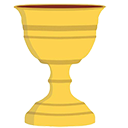
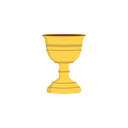
新遗物圣杯完成

diff --git a/src/main/java/asimplemodforsts/relics/HolyGrail.java b/src/main/java/asimplemodforsts/relics/HolyGrail.java
@@ -8,22 +8,27 @@ import com.megacrit.cardcrawl.actions.common.GainEnergyAction;
 import com.megacrit.cardcrawl.actions.common.RelicAboveCreatureAction;
 import com.megacrit.cardcrawl.core.AbstractCreature;
 import com.megacrit.cardcrawl.dungeons.AbstractDungeon;
+import com.megacrit.cardcrawl.helpers.ImageMaster;
 import com.megacrit.cardcrawl.relics.AbstractRelic;
 import com.megacrit.cardcrawl.relics.RedSkull;
 
 public class HolyGrail extends CustomRelic {
-    public static final String ID="holy grail";
+    public static final String ID="holy_grail";
 
     public HolyGrail() {
-        super(ID, "holy_grail.png", AbstractRelic.RelicTier.RARE, AbstractRelic.LandingSound.SOLID);
+        super(ID, ImageMaster.loadImage("images/relics/holy_grail.png"), AbstractRelic.RelicTier.RARE, AbstractRelic.LandingSound.SOLID);
     }
-
+    @Override
     public void atTurnStart(){
         flash();
         addToBot((AbstractGameAction)new RelicAboveCreatureAction((AbstractCreature) AbstractDungeon.player, this));
         addToBot((AbstractGameAction)new GainEnergyAction(3));
     }
-
+    @Override
+    public String getUpdatedDescription() {
+        return this.DESCRIPTIONS[0];
+    }
+    @Override
     public AbstractRelic makeCopy() {
         return new HolyGrail();
     }

diff --git a/src/main/java/asimplemodforsts/Main.java b/src/main/java/asimplemodforsts/Main.java
@@ -8,6 +8,7 @@ import basemod.interfaces.EditRelicsSubscriber;
 import basemod.interfaces.EditStringsSubscriber;
 import basemod.interfaces.ISubscriber;
 import com.evacipated.cardcrawl.modthespire.lib.SpireInitializer;
+import com.megacrit.cardcrawl.localization.RelicStrings;
 import org.apache.logging.log4j.Level;
 import org.apache.logging.log4j.LogManager;
 import org.apache.logging.log4j.Logger;
@@ -31,6 +32,6 @@ public class Main implements EditRelicsSubscriber , EditStringsSubscriber, EditC
 
     @Override
     public void receiveEditStrings() {
-        BaseMod.loadCustomStringsFile(HolyGrail.class, "lang/relics/HolyGrail_zh.json");
+        BaseMod.loadCustomStringsFile(RelicStrings.class, "lang/relics/HolyGrail_zh.json");
     }
 }
